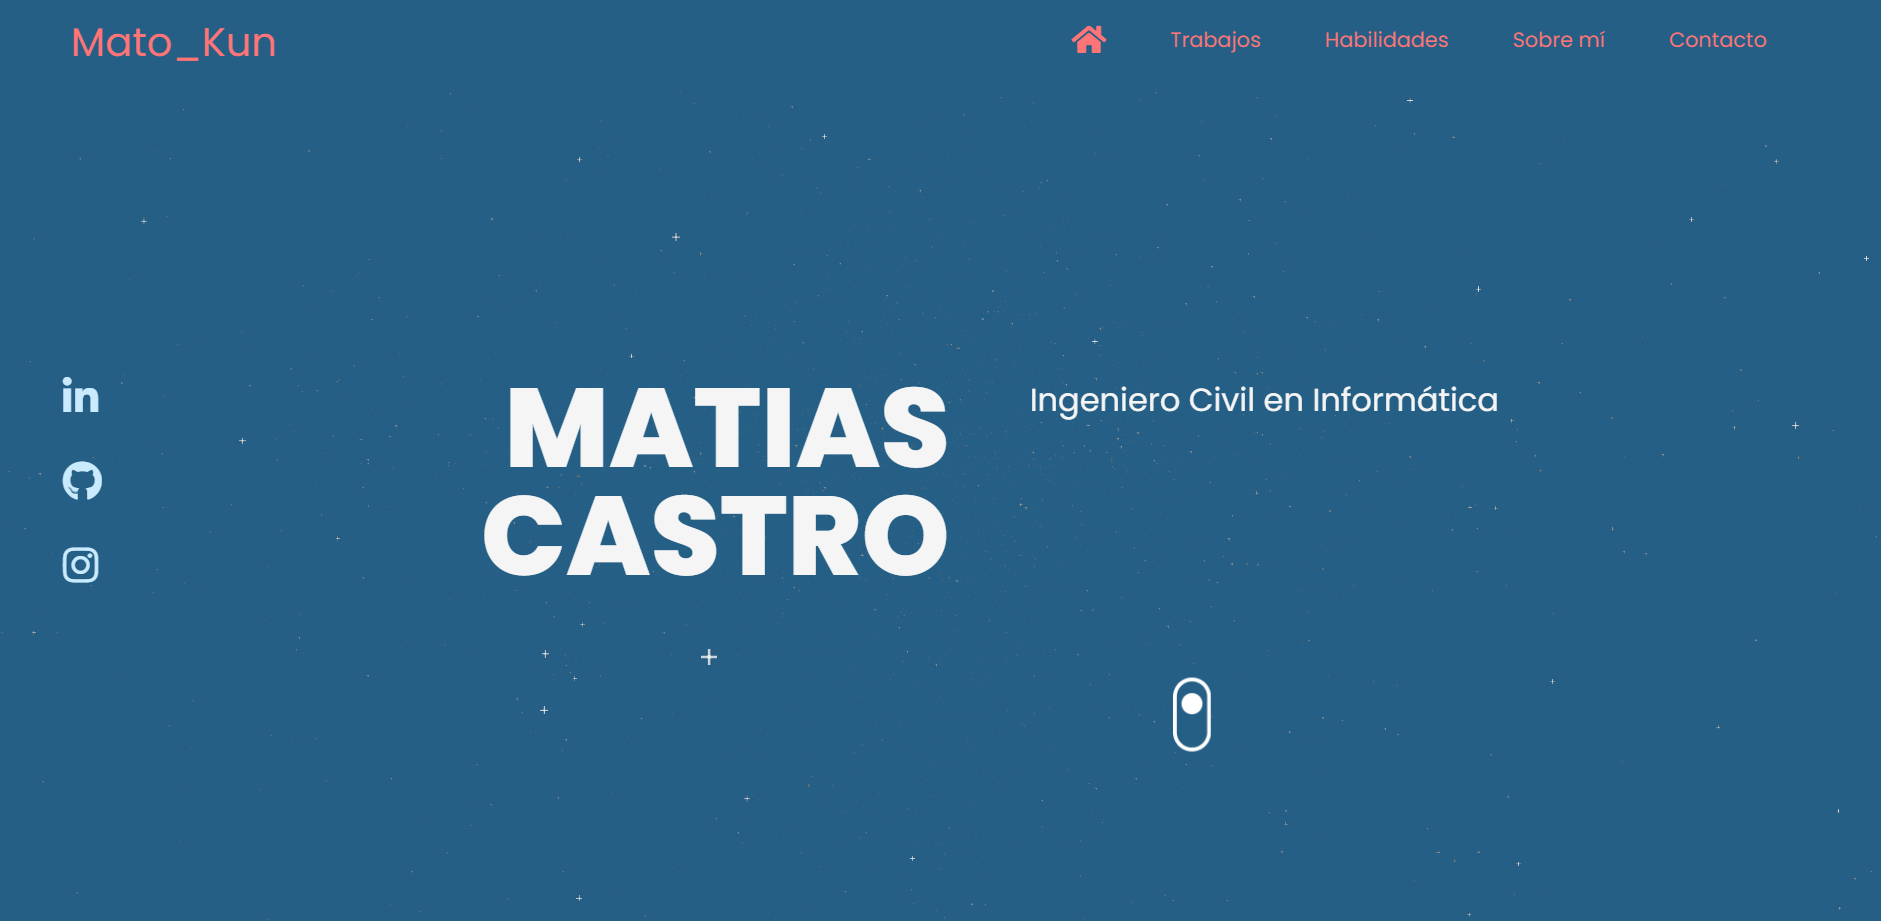
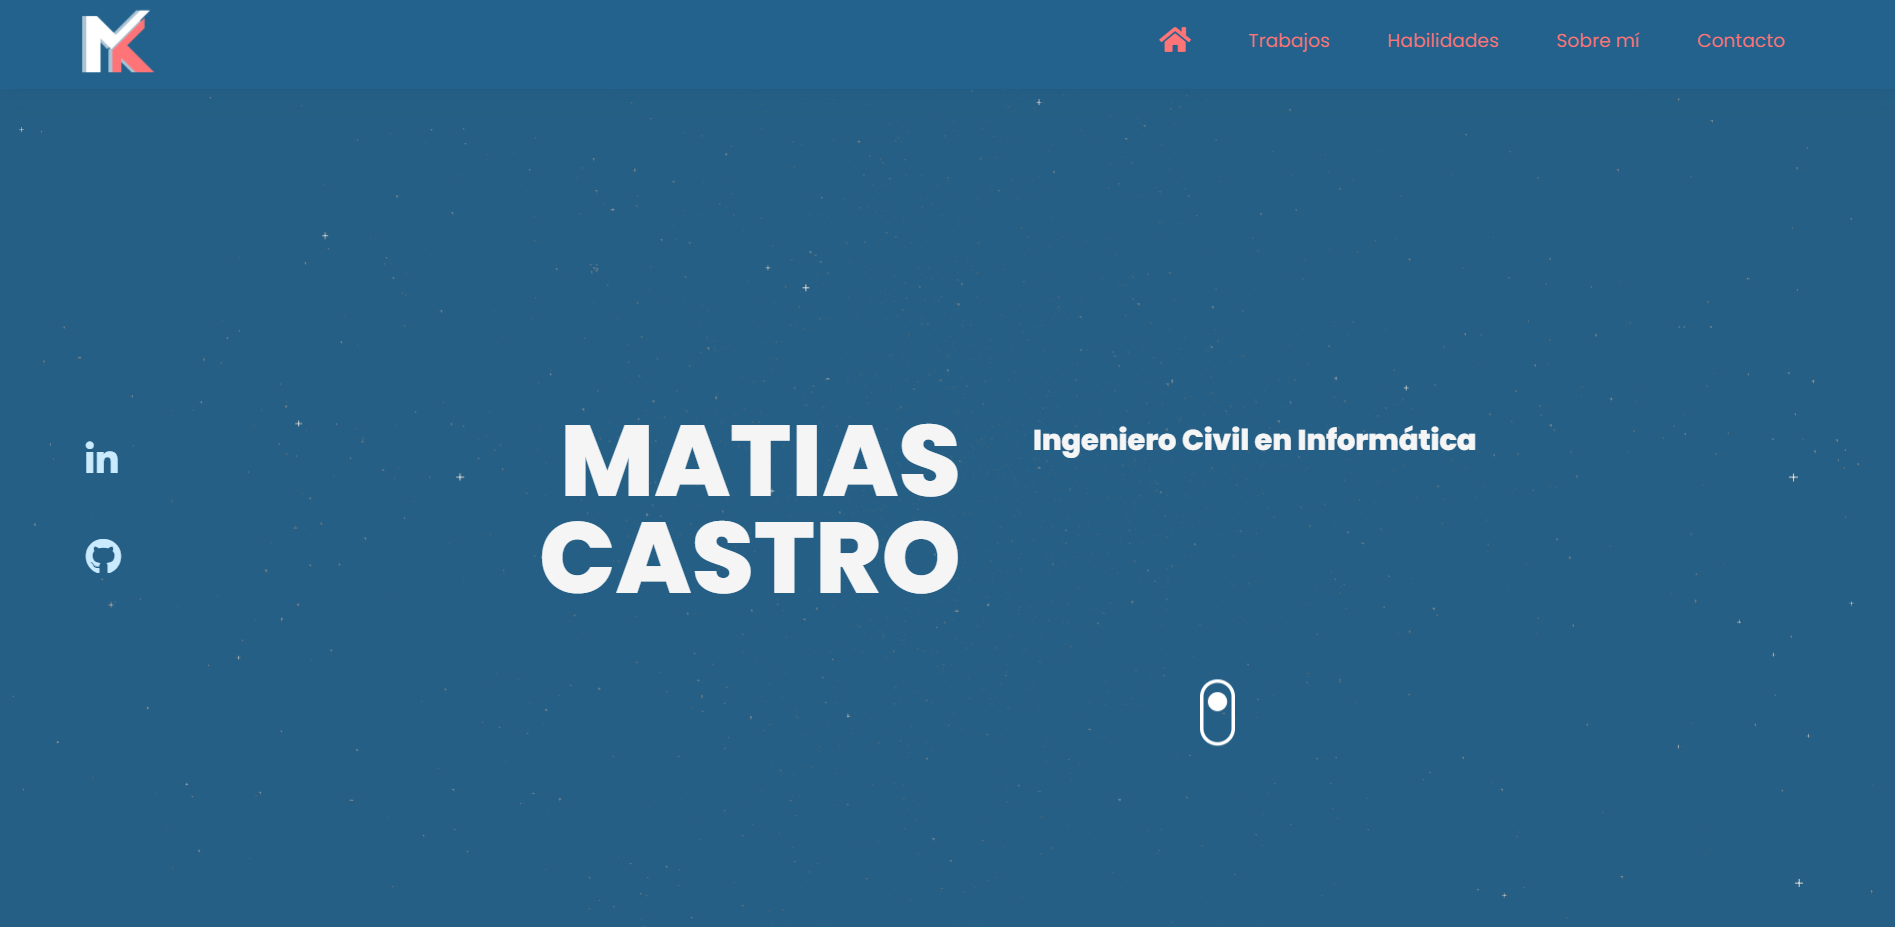
Updates

diff --git a/index.html b/index.html
@@ -19,7 +19,9 @@
         <header>
             <nav class="navbar">
                 <div class="brand-title">
-                    <a href="#home">Mato_Kun</a>
+                    <a href="#home">
+                        <img src="./static/logo matokun2.png" alt="">
+                    </a>
                 </div>
                 <a class="toggle-button">
                     <span class="bar"></span>
@@ -254,7 +256,7 @@
                             <div class="slider-glass">
                                 <div class="slider-details hidden">
                                     <a class="toggle-details"><i class="fas fa-times"></i></a>
-                                    Implementé algunas tecnologías interesantes que he estado aprendiendo para desarrollar este portafolio; utilicé ThreeJS para agregar las particulas flotantes que interactúan con el movimiento del mouse; utilicé Blender para realizar los modelos 3D que se ven en el fondo; las particulas flotantes y el logo los realicé en Krita, otro software que aprendí a utilizar de la mano de Blender; implementé el carrusel de trabajos y el de habilidades a través del framework SwiperJS de JavaScript; el resto está hecho en html, css y JavaScript puro, agregando algunas animaciones simples.
+                                    Implementé algunas tecnologías interesantes que he estado aprendiendo para desarrollar este portafolio; un poco de ThreeJS para las particulas flotantes que interactúan con el movimiento del mouse; implementé el carrusel de trabajos y el de habilidades a través del framework SwiperJS de JavaScript; el resto está hecho en Html, CSS, JavaScript puro, y un poco de Blender.
                                 </div>
                                 <div class="slider-image">
                                     <img src="./static/portfolio-cover.png" alt="">
@@ -479,6 +481,7 @@
                             <textarea name="message" class="message-input" id="" cols="30" rows="10" required></textarea>
                         </div>
                         <button class="submit-button" type="submit">Enviar <i class="fas fa-paper-plane"></i></button>
+                        <input type="hidden" name="_next" value="https://matokun95.github.io/portafolio/#contact">
                    </form>
                 </div>
             </section>
@@ -587,84 +590,6 @@
             }}
             });
 
-            // var swiper = new Swiper('#portfolio .swiper-container', {
-                // effect: 'coverflow',
-                // grabCursor: true,
-                // centeredSlides: true,
-                // coverflowEffect: {
-                //     rotate: 20,
-                //     stretch: 0,
-                //     depth: 200,
-                //     modifier: 1,
-                //     slideShadows: true,
-                // },
-            //     navigation: {
-            //         nextEl: '.swiper-button-next',
-            //         prevEl: '.swiper-button-prev',
-            // },
-            //     breakpoints: {
-            // 320: {
-            // slidesPerView: 1,
-            // spaceBetween: 5
-            // },
-            // 404: {
-            // slidesPerView: 1.14,
-            // spaceBetween: 5
-            // },
-            // 456: {
-            // slidesPerView: 1.28,
-            // spaceBetween: 15
-            // },
-            // 573: {
-            // slidesPerView: 1.42,
-            // spaceBetween: 5
-            // },
-            // 625: {
-            // slidesPerView: 1.56,
-            // spaceBetween: 5
-            // },
-            // 742: {
-            // slidesPerView: 1.7,
-            // spaceBetween: 5
-            // },
-            // 794: {
-            // slidesPerView: 1.84,
-            // spaceBetween: 5
-            // },
-            // 911: {
-            // slidesPerView: 1.98,
-            // spaceBetween: 5
-            // },
-            // 963: {
-            // slidesPerView: 2.12,
-            // spaceBetween: 5
-            // },
-            // 1080: {
-            // slidesPerView: 2.26,
-            // spaceBetween: 5
-            // },
-            // 1132: {
-            // slidesPerView: 2.4,
-            // spaceBetween: 5
-            // },
-            // 1249: {
-            // slidesPerView: 2.54,
-            // spaceBetween: 5
-            // },
-            // 1301: {
-            // slidesPerView: 2.68,
-            // spaceBetween: 15
-            // },
-            // 1418: {
-            // slidesPerView: 2.82,
-            // spaceBetween: 5
-            // },
-            // 1470: {
-            // slidesPerView: 3,
-            // spaceBetween: 10
-            // }},
-            // });
-
             // skills swiper
             var Swiper = new Swiper('#skills .swiper-container', {
                 grabcursos: true,
@@ -683,23 +608,41 @@
             const p = document.querySelector('p')
             const tl = gsap.timeline()
 
-            //tl.from(content, { delay: .5, duration: 4, cssRule: {scaleX: 0}})
             tl.to(h1, { duration: 2, clipPath: 'polygon(0 0, 100% 0, 100% 100%, 0% 100%)', y: '0px'}, '+=.5')
             tl.to(p, { duration: 2, clipPath: 'polygon(0 0, 100% 0, 100% 100%, 0% 100%)', y: '0px'}, '-=1')
 
             // toggle menu
             const toggleButton = document.getElementsByClassName('toggle-button')[0]
             const navbarLinks = document.getElementsByClassName('navbar-links')[0]
+            const container = document.querySelector('.container')
+            const logo = document.getElementsByClassName('brand-title')[0]
 
             toggleButton.addEventListener('click', () => {
                 navbarLinks.classList.toggle('active')
+            })
+
+            container.addEventListener('click', () => {
+                if (navbarLinks.classList.contains('active')) {
+                    navbarLinks.classList.remove('active')                    
+                }
+            })
+
+            navbarLinks.addEventListener('click', () => {
+                if (navbarLinks.classList.contains('active')) {
+                    navbarLinks.classList.remove('active')                    
+                }
+            })
+            
+            logo.addEventListener('click', () => {
+                if (navbarLinks.classList.contains('active')) {
+                    navbarLinks.classList.remove('active')                    
+                }
             })
 
             // toggle slider details
             const toggleDetailsButton = document.querySelectorAll('.toggle-details')
             const detailsButtons = document.querySelectorAll('.details-button')
             const details = document.querySelectorAll('.slider-details')
-            const container = document.querySelector('.container')
 
             toggleDetailsButton.forEach(button => {
                 button.addEventListener('click', () => {
@@ -708,19 +651,6 @@
                     })
                 })
             })
-
-            // detailsButtons.forEach(button => {
-            //     button.addEventListener('click', (e) => {
-            //         let son = e.toElement
-            //         let parent = son.parentElement
-            //         let prevSibling = parent.previousElementSibling;
-            //         while(prevSibling.previousElementSibling != null) {
-            //             prevSibling = prevSibling.previousElementSibling;
-            //             prevSibling.classList.remove('hidden')
-            //         }
-            //     })
-            // });
-
 
             detailsButtons.forEach(button => {
                 button.addEventListener('click', () => {

diff --git a/style.css b/style.css
@@ -1,7 +1,9 @@
 @import url('https://fonts.googleapis.com/css2?family=Poppins:wght@400;600;800&display=swap');
 
 :root {
-	--clr-primary: #255f85;
+	--clr-primary: #256285;
+	--clr-navbar: #22628d;
+	/* --clr-navbar: rgb(42, 109, 153); */
 	--clr-primary-light: rgb(38, 108, 155);
 	--clr-accent: rgb(66, 172, 233);
 	--clr-almost-white: rgba(204, 236, 255, 0.993);
@@ -84,14 +86,21 @@ li a span {
 	align-items: center;
 	position: fixed;
 	color: var(--clr-third);
-	background: var(--clr-primary);
+	background: var(--clr-navbar);
 	z-index: 2;
+	box-shadow: 0px 0px 30px -6px #153d6336;
 }
 
 .brand-title {
-	font-size: 2.5em;
-	/* margin-left: 6rem; */
-	margin-left: 5vw;
+	/* margin-left: 5vw; */
+}
+
+.brand-title img {
+	width: 90px;
+	position: absolute;
+	left: 5vw;
+	top: 10px;
+	margin-left: -10px;
 }
 
 .brand-title a,
@@ -116,7 +125,7 @@ li a span {
 .navbar-links li a {
 	text-decoration: none;
 	color: var(--clr-third);
-	padding: 2rem;
+	padding: 2.2rem 2rem;
 	display: block;
 }
 
@@ -130,7 +139,7 @@ li a span {
 
 .toggle-button {
 	position: absolute;
-	top: 2rem;
+	top: 1.5rem;
 	right: 5vw;
 	display: none;
 	flex-direction: column;
@@ -155,23 +164,25 @@ li a span {
 	.navbar-links a {
 		font-size: 1.2rem;
 	}
+
+	.brand-title img {
+		width: 80px;
+	}
 }
 
 @media (max-width: 1250px) {
 	.navbar-links a {
 		font-size: 1rem;
 	}
+
+	.brand-title img {
+		width: 70px;
+	}
 }
 
 @media (max-width: 1000px) {
 	.toggle-button {
 		display: flex;
-	}
-
-	.brand-title {
-		display: flex;
-		align-items: center;
-		height: 5rem;
 	}
 
 	.navbar-links {
@@ -199,6 +210,15 @@ li a span {
 
 	.navbar-links.active {
 		display: flex;
+	}
+
+	.brand-title {
+		height: 65px;
+	}
+
+	.brand-title img {
+		width: 50px;
+		margin-left: 0;
 	}
 }
 
@@ -896,7 +916,7 @@ li a span {
 	align-items: center;
 	justify-content: center;
 	opacity: 0%;
-	font-size: 1.3rem;
+	font-size: 1rem;
 }
 
 .about-icons-background:hover {
@@ -919,6 +939,7 @@ li a span {
 	align-items: center;
 	justify-content: center;
 	gap: 1rem;
+	margin-top: 1.5rem;
 }
 
 .cv-download:hover {
@@ -984,6 +1005,10 @@ li a span {
 		width: 4rem;
 		height: 4rem;
 		font-size: 0.6rem;
+	}
+
+	.cv-download {
+		margin-top: 1.5rem;
 	}
 }
 /* Contact */
